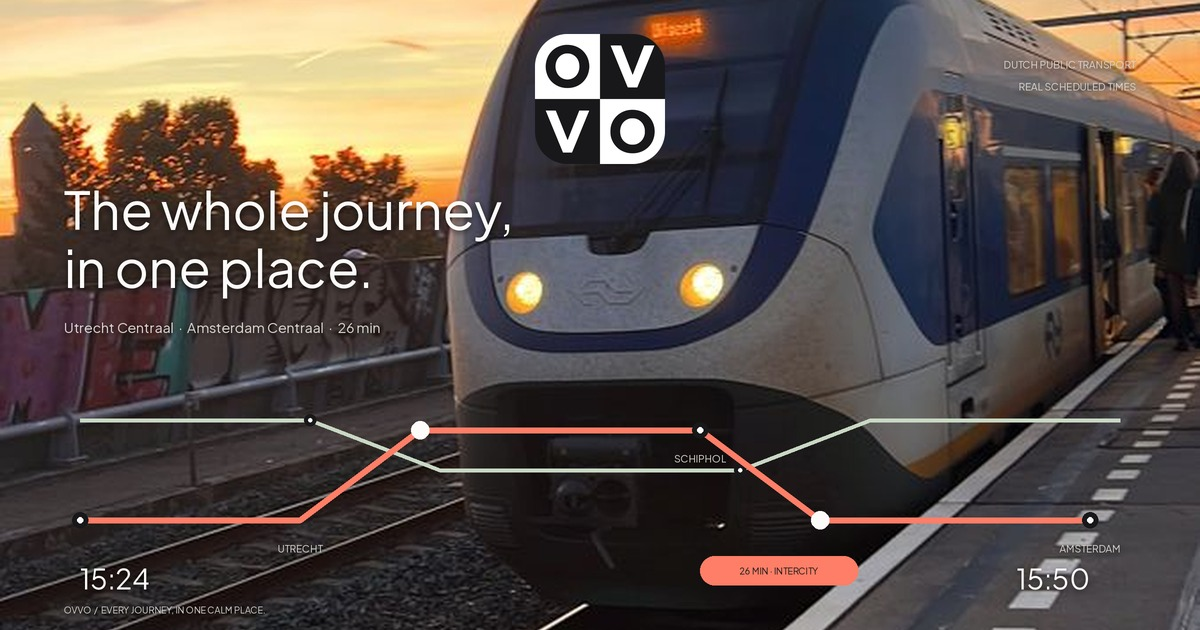
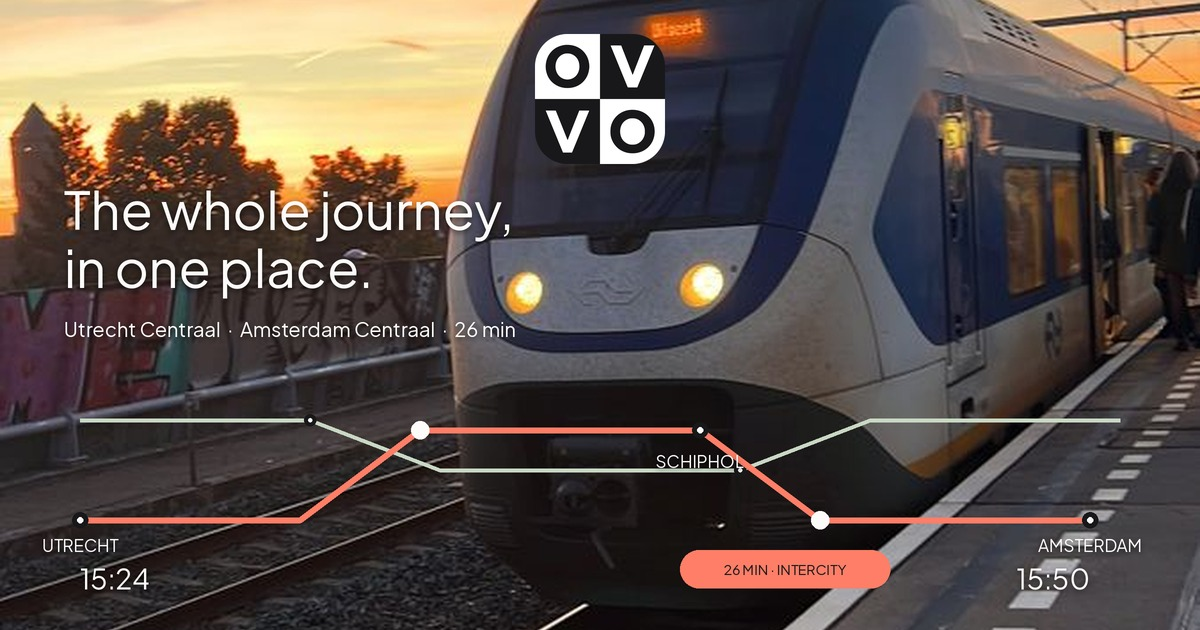
Enlarge the preview labels and move Utrecht under its stop

diff --git a/index.html b/index.html
@@ -16,8 +16,8 @@
       content="Plan a journey across the Netherlands with real scheduled times, platforms and transfers."
     />
     <meta property="og:url" content="https://app.ovvo.us.ci/" />
-    <meta property="og:image" content="https://app.ovvo.us.ci/og-image.jpg?v=3" />
-    <meta property="og:image:secure_url" content="https://app.ovvo.us.ci/og-image.jpg?v=3" />
+    <meta property="og:image" content="https://app.ovvo.us.ci/og-image.jpg?v=4" />
+    <meta property="og:image:secure_url" content="https://app.ovvo.us.ci/og-image.jpg?v=4" />
     <meta property="og:image:type" content="image/jpeg" />
     <meta property="og:image:width" content="1200" />
     <meta property="og:image:height" content="630" />
@@ -28,7 +28,7 @@
       name="twitter:description"
       content="Plan a journey across the Netherlands with real scheduled times, platforms and transfers."
     />
-    <meta name="twitter:image" content="https://app.ovvo.us.ci/og-image.jpg?v=3" />
+    <meta name="twitter:image" content="https://app.ovvo.us.ci/og-image.jpg?v=4" />
     <meta name="twitter:image:alt" content="OVVO" />
     <title>OVVO</title>
     <link rel="icon" type="image/svg+xml" href="/favicon.svg" />
